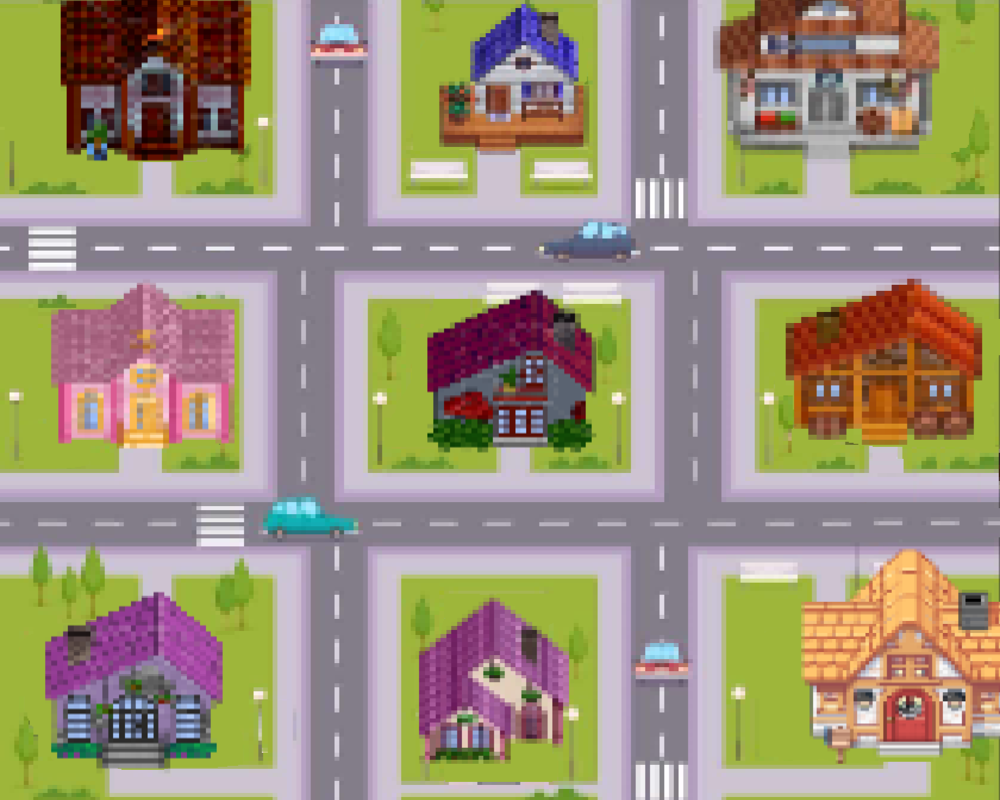
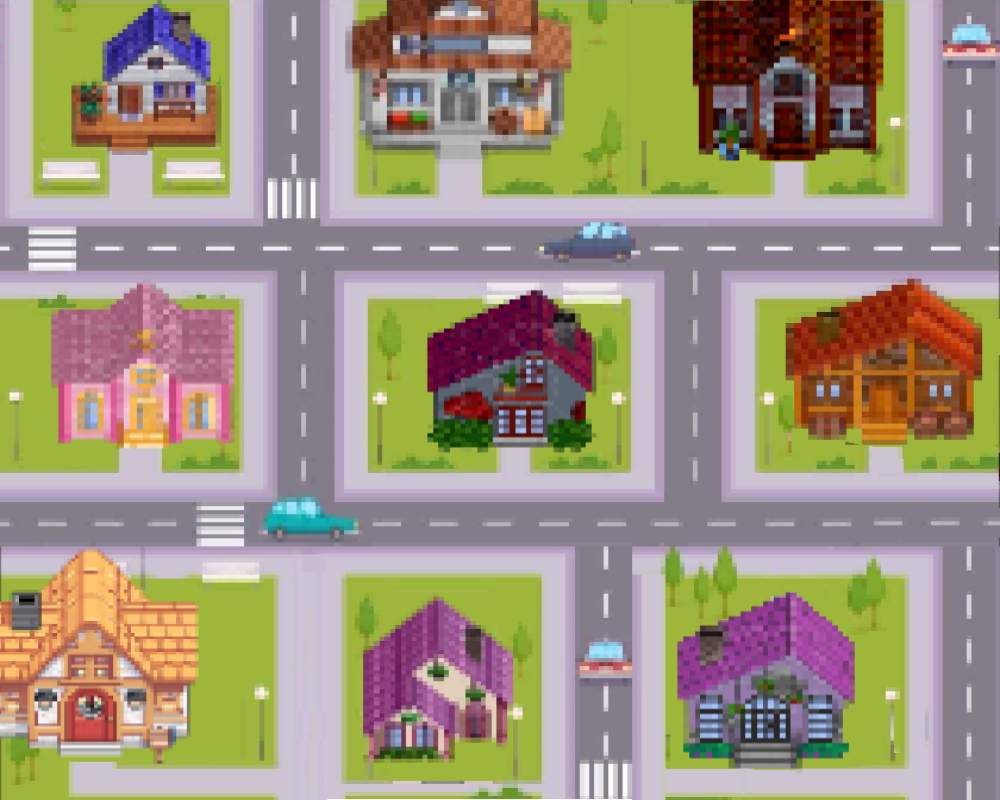
Subindo a mudança do mapa, alteração na classe Botao para TxtBtn e alteração no placar

diff --git a/main.py b/main.py
@@ -7,25 +7,24 @@ from ambiente import Blockage
 from lixeira import TrashCan
 from lixos import Trash
 from placar import Placar
-from botao import Button
+from txtbtn import TxtBtn
 import random
 
-# TODO: Adicionar sprites aos botões (menu, tela de nome, ranking) [em progresso]
 # TODO: Refatorar o código se possível [em progresso]
-# TODO: Melhorar a visibilidade do placar
-# TODO:
+# TODO: TALVEZ a namescreen possa ser passada para uma classe
 
-
+# Cores para testes/debug
 RED = (255, 0, 0)
 GREEN = (0, 255, 0)
 BLUE = (0, 0, 255)
+# Lista e dicionários auxiliares para setar imagens e randomizar os lixos
 MATERIAL = ['papel', 'vidro', 'organico', 'plastico']
-COLORS_TC = [(0, 0, 200), (0, 200, 0), (110, 32, 32), (200, 0, 0)]
 PAPER_IMG = {0: 'assets/papel0.png', 1: 'assets/papel1.png', 2: 'assets/papel2.png'}
 GLASS_IMG = {0: 'assets/vidro0.png', 1: 'assets/vidro1.png', 2: 'assets/vidro2.png'}
 ORGANIC_IMG = {0: 'assets/organico0.png', 1: 'assets/organico1.png', 2: 'assets/organico2.png'}
 PLASTIC_IMG = {0: 'assets/plastico0.png', 1: 'assets/plastico1.png', 2: 'assets/plastico2.png'}
 MATERIAL_IMG = [PAPER_IMG, GLASS_IMG, ORGANIC_IMG, PLASTIC_IMG]
+
 BACKGROUND = pygame.image.load('assets/mapa_pronto.png')
 
 # Inicializando o Pygame e Criando a Janela do Jogo
@@ -36,7 +35,7 @@ pygame.display.set_caption("Recycle Rush")
 
 
 def play():
-    # Objetos
+    # Instanciando o jogador e o placar
     object_group = pygame.sprite.Group()
     placar = Placar()
     personagem = Personagem(object_group, placar=placar)
@@ -44,20 +43,21 @@ def play():
     # Criando os espaços dos obstáculos (casas e carros)
     sprites_list = pygame.sprite.Group()
     blockages = [
-        Blockage(RED, 190, 156, x=60),
-        Blockage(RED, 58, 68, x=310),
-        Blockage(RED, 145, 156, x=437),
-        Blockage(RED, 209, 156, x=722),
+        Blockage(RED, 149, 147, x=70),
+        Blockage(RED, 207, 149, x=360),
+        Blockage(RED, 178, 156, x=698),
+        Blockage(RED, 53, 39, x=945, y=20),
         Blockage(RED, 100, 35, x=537, y=220),
         Blockage(RED, 186, 135, x=48, y=306),
         Blockage(RED, 167, 135, x=424, y=306),
         Blockage(RED, 180, 135, x=791, y=306),
-        Blockage(RED, 178, 166, x=44, y=589),
-        Blockage(RED, 152, 166, x=416, y=589),
-        Blockage(RED, 56, 40, x=633, y=641),
-        Blockage(RED, 200, 166, x=800, y=589),
+        Blockage(RED, 191, 157, x=0, y=589),
+        Blockage(RED, 140, 135, x=368, y=620),
+        Blockage(RED, 53, 39, x=579, y=641),
+        Blockage(RED, 162, 135, x=683, y=620),
         Blockage(RED, 98, 40, x=260, y=498)
         ]
+    # Adicionando os bloqueios na lista de sprites
     for block in blockages:
         sprites_list.add(block)
     personagem.blockage_group = sprites_list
@@ -67,9 +67,11 @@ def play():
     trashcans = [
         TrashCan(32, 46, 'assets/lixeira_papel.png', x_flip=1, x=2, y=175, material=MATERIAL[0]),
         TrashCan(32, 46, 'assets/lixeira_vidro.png', x_flip=1, x=2, y=530, material=MATERIAL[1]),
-        TrashCan(32, 46, 'assets/lixeira_organica.png', x=965, y=530, material=MATERIAL[2]),
-        TrashCan(32, 46, 'assets/lixeira_plastico.png', x=965, y=175, material=MATERIAL[3])
+        TrashCan(32, 46, 'assets/lixeira_organica.png', x=905, y=750, material=MATERIAL[2]),
+        TrashCan(32, 46, 'assets/lixeira_plastico.png', x=905, y=175, material=MATERIAL[3])
         ]
+
+    # Adicionando as lixeiras na lista de sprites
     for trashcan in trashcans:
         sprites_list2.add(trashcan)
     personagem.trashcan_group = sprites_list2
@@ -80,10 +82,10 @@ def play():
     def create_trash():
         rng = random.randint(0, 3)
         rng_img = random.randint(0, 2)
-        trash_test = Trash(MATERIAL_IMG[rng][rng_img], 20, 20, sprites_list, sprites_list2)
-        trash_test.material = MATERIAL[rng]
-        trash_test.character_group = object_group
-        return trash_test
+        trash = Trash(MATERIAL_IMG[rng][rng_img], 20, 20, sprites_list, sprites_list2)
+        trash.material = MATERIAL[rng]
+        trash.character_group = object_group
+        return trash
 
     # Música de fundo do jogo
     pygame.mixer.music.load("assets/Juhani Junkala [Chiptune Adventures] 1. Stage 1.wav")
@@ -111,9 +113,9 @@ def play():
         sprites_list.draw(display)
         display.blit(BACKGROUND, (0, 0))
         sprites_list2.draw(display)
+        placar.render(display)
         sprites_list3.draw(display)
         object_group.draw(display)
-        placar.render(display)
         pygame.display.flip()
         pygame.display.update()
 
@@ -124,6 +126,7 @@ def play():
 def ranking():
     player_data = []
     sorted_players = []
+    # Se o arquivo de save existir, abre o arquivo e cria um dicionário para o player adicionando em uma lista
     if os.path.exists('save.csv'):
         with open('save.csv', 'r', encoding='utf8') as file:
             reader = csv.DictReader(file)
@@ -133,16 +136,18 @@ def ranking():
                     'Pontuação': int(row['Pontuação']),
                 }
                 player_data.append(player)
+        # Utiliza a função sorted para ordenar os jogadores através da pontuação
         sorted_players = sorted(player_data, key=lambda x: x['Pontuação'], reverse=True)
 
+    # Criando textos e botões
     title = (pygame.font.Font('assets/pixeloid_sans.ttf', 70)
              .render('Ranking', True, '#FFA756'))
     title_rect = title.get_rect(center=(500, 50))
-    menu_button = Button(None, 500, 750, "Main Menu", 'assets/pixeloid_sans.ttf', 30,
+    menu_button = TxtBtn(None, 500, 750, "Main Menu", 'assets/pixeloid_sans.ttf', 30,
                          "#FFA756", "White")
-    next_page_button = Button(None, 700, 400, "-->", 'assets/pixeloid_sans.ttf', 30,
+    next_page_button = TxtBtn(None, 700, 400, "-->", 'assets/pixeloid_sans.ttf', 30,
                               "#FFA756", "White")
-    prev_page_button = Button(None, 300, 400, "<--", 'assets/pixeloid_sans.ttf', 30,
+    prev_page_button = TxtBtn(None, 300, 400, "<--", 'assets/pixeloid_sans.ttf', 30,
                               "#FFA756", "White")
     current_page = 0
     players_per_page = 15
@@ -152,13 +157,16 @@ def ranking():
         display.fill((42, 1, 52))
         display.blit(title, title_rect)
 
+        # Index utilizado no enumerate para trazer apenas os jogadores que devem estar no range da página atual
         current_index = current_page * players_per_page
         final_index = (current_page + 1) * players_per_page
 
         if final_index > players_amount:
             final_index = players_amount
 
+        # Altura inicial do texto do ranking
         y = 200
+        # Loop para obter os players ordenados com colocação, nome e pontuação
         for rank, player in enumerate(sorted_players[current_index:final_index], start=current_index + 1):
             player_text = f'{rank}. {player["Nome"]}:'
             player_points_text = f'{player["Pontuação"]}pts'
@@ -193,6 +201,7 @@ def ranking():
 
 
 def name_screen(points):
+    # Parando a música quando o jogador perde
     pygame.mixer.music.stop()
     title = (pygame.font.Font('assets/pixeloid_sans.ttf', 100)
              .render('Salvar Partida', True, '#FFA756'))
@@ -223,13 +232,13 @@ def name_screen(points):
                 if event.key == pygame.K_BACKSPACE:
                     user_text = user_text[:-1]
                     # Adiciona na string o caractere capturado
-                elif len(user_text) <= 15:
+                elif len(user_text) <= 15 and event.key != pygame.K_RETURN:
                     user_text += event.unicode
 
             if not saved:
-                input_rect = Button('assets/nome_retangulo.png', 500, 250, user_text, 'assets/pixeloid_sans.ttf', 26,
+                input_rect = TxtBtn('assets/nome_retangulo.png', 500, 250, user_text, 'assets/pixeloid_sans.ttf', 26,
                                     "#FFA756", "#FFA756", (400, 70), 'assets/nome_retangulo.png')
-                save_rect = Button(None, 500, 400, "Continuar", 'assets/pixeloid_sans.ttf',
+                save_rect = TxtBtn(None, 500, 400, "Continuar", 'assets/pixeloid_sans.ttf',
                                    50, "#FFA756", "White")
 
                 # Ao clicar no botão, seu estado é alterado (selecionado)
@@ -260,24 +269,27 @@ def name_screen(points):
 
 
 def main_menu():
+    # Setando botões e textos na tela
     title = (pygame.font.Font('assets/pixeloid_sans.ttf', 100)
              .render('Recycle Rush', True, '#FFA756'))
     title_rect = title.get_rect(center=(500, 200))
-    play_button = Button('assets/btn_jogar1.png', 500, 400, None, 'assets/pixeloid_sans.ttf', 50,
+    play_button = TxtBtn('assets/btn_jogar1.png', 500, 400, None, 'assets/pixeloid_sans.ttf', 50,
                          "#FFA756", "white", (440, 135), 'assets/btn_jogar2.png')
-    ranking_button = Button('assets/btn_ranking1.png', 50, 50, None, 'assets/pixeloid_sans.ttf', 50,
+    ranking_button = TxtBtn('assets/btn_ranking1.png', 50, 50, None, 'assets/pixeloid_sans.ttf', 50,
                             "#FFA756", "white", (70, 70), 'assets/btn_ranking2.png')
-    quit_button = Button('assets/btn_shutdown1.png', 950, 750, None, 'assets/pixeloid_sans.ttf', 50,
+    quit_button = TxtBtn('assets/btn_shutdown1.png', 950, 750, None, 'assets/pixeloid_sans.ttf', 50,
                          "#FFA756", "white", (70, 70), 'assets/btn_shutdown2.png')
     while True:
         menu_mouse_pos = pygame.mouse.get_pos()
         display.fill((42, 1, 52))
         display.blit(title, title_rect)
 
+        # Alterando e atualizando botões
         for button in [play_button, ranking_button, quit_button]:
             button.change_state(menu_mouse_pos)
             button.update(display)
 
+        # Capturando eventos
         for event in pygame.event.get():
             if event.type == pygame.QUIT:
                 pygame.quit()

diff --git a/placar.py b/placar.py
@@ -1,4 +1,5 @@
 import pygame
+from txtbtn import TxtBtn
 
 
 class Placar:
@@ -18,10 +19,13 @@ class Placar:
         self.pontuacao = 0
 
     def render(self, tela):
-        points_txt = self.fonte.render(f'Pontuação: {self.pontuacao}', True, (0, 255, 255))
-        tela.blit(points_txt, points_txt.get_rect(center=(500, 30)))
-        life_txt = self.fonte.render(f'Vidas: {self.life}', True, (0, 255, 255))
-        tela.blit(life_txt, life_txt.get_rect(center=(150, 30)))
+        points_txt = TxtBtn('assets/nome_retangulo.png', 500, 30, f'Pontuação: {self.pontuacao}',
+                            'assets/pixeloid_sans.ttf', 26, (0, 0, 0), (0, 0, 0), (250, 40),
+                            'assets/nome_retangulo.png')
+        life_txt = TxtBtn('assets/nome_retangulo.png', 150, 30, f'Vidas: {self.life}', 'assets/pixeloid_sans.ttf', 26,
+                          (255, 0, 0), (255, 0, 0), (150, 40), 'assets/nome_retangulo.png')
+        for text in [points_txt, life_txt]:
+            text.update(tela)
 
     def decrementar_pontuacao(self, pontos):
         self.pontuacao -= pontos

diff --git a/txtbtn.py b/txtbtn.py
@@ -1,7 +1,7 @@
 import pygame
 
 
-class Button(pygame.sprite.Sprite):
+class TxtBtn(pygame.sprite.Sprite):
     def __init__(self, img, x, y, text_input, font, size, base_color, hovering_color, img_size=None, img_hover=None):
         super().__init__()
 
